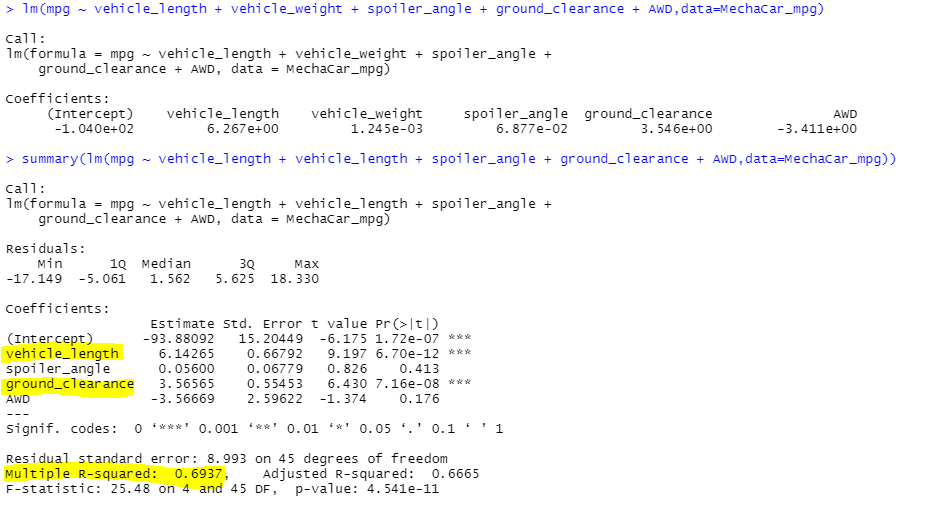
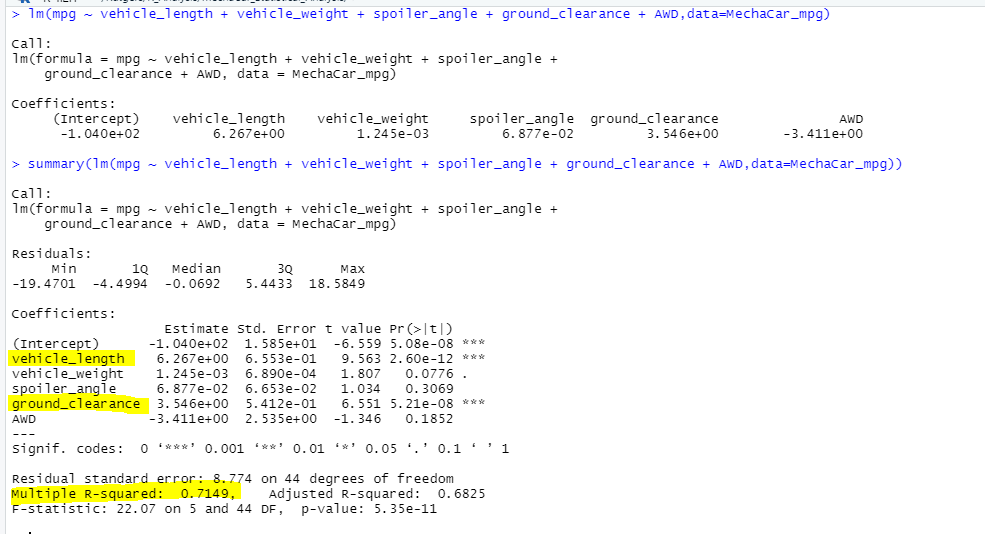
updated deliverable 1

diff --git a/README.md b/README.md
@@ -2,7 +2,7 @@
 ## Linear Regression to Predict MPG
 ![Linear Regression to Predict MPG](https://github.com/Meghajain84/MechaCar_Statistical_Analysis/blob/main/deliverable1.PNG)
 * **Which variables/coefficients provided a non-random amount of variance to the mpg values in the dataset?**
-   * **vehicle_length** and **ground_clearance** provided a non-random amount of variance to the mpg values in the dataset.
+   * **vehicle_length(with p value as 2.60e-12 which is less than 0.05 )** and **ground_clearance(with p value as 5.21e-08 which is less than 0.05 )** provided a non-random amount of variance to the mpg values in the dataset.
    * When an intercept is statistically significant, it means that the intercept term explains a significant amount of variability in the dependent variable when all independent vairables are equal to zero. Depending on our dataset, a significant intercept could mean that the significant features (such as vehicle_length and ground_clearance) may need scaling or transforming to help improve the predictive power of the model. 
     
 * **Is the slope of the linear model considered to be zero? Why or why not?**
@@ -16,7 +16,7 @@
         m5 = coefficient of AWD = -3.411e+00 = -3.411
         mpg = (-1.040e+02) + (m1 * vehicle_length) + (m2 * vehicle_weight) + (m3 * spoiler_angle) + (m4 * ground_clearance) + (m5 * AWD)
 * **Does this linear model predict mpg of MechaCar prototypes effectively? Why or why not?**
-    * Yes, this model predicted mpg of MechaCar prototypes effectively as **Multiple R-squared value of 0.6937** is pretty good indicator of prediction. It's showing ~69% confidence.
+    * Yes, this model predicted mpg of MechaCar prototypes effectively as **Multiple R-squared value of 0.7149** is strong indicator of correct prediction. It's showing ~71% confidence.
 
 ## Summary Statistics on Suspension Coils
 ![Total](https://github.com/Meghajain84/MechaCar_Statistical_Analysis/blob/main/deliverable2_total_summary.PNG)
